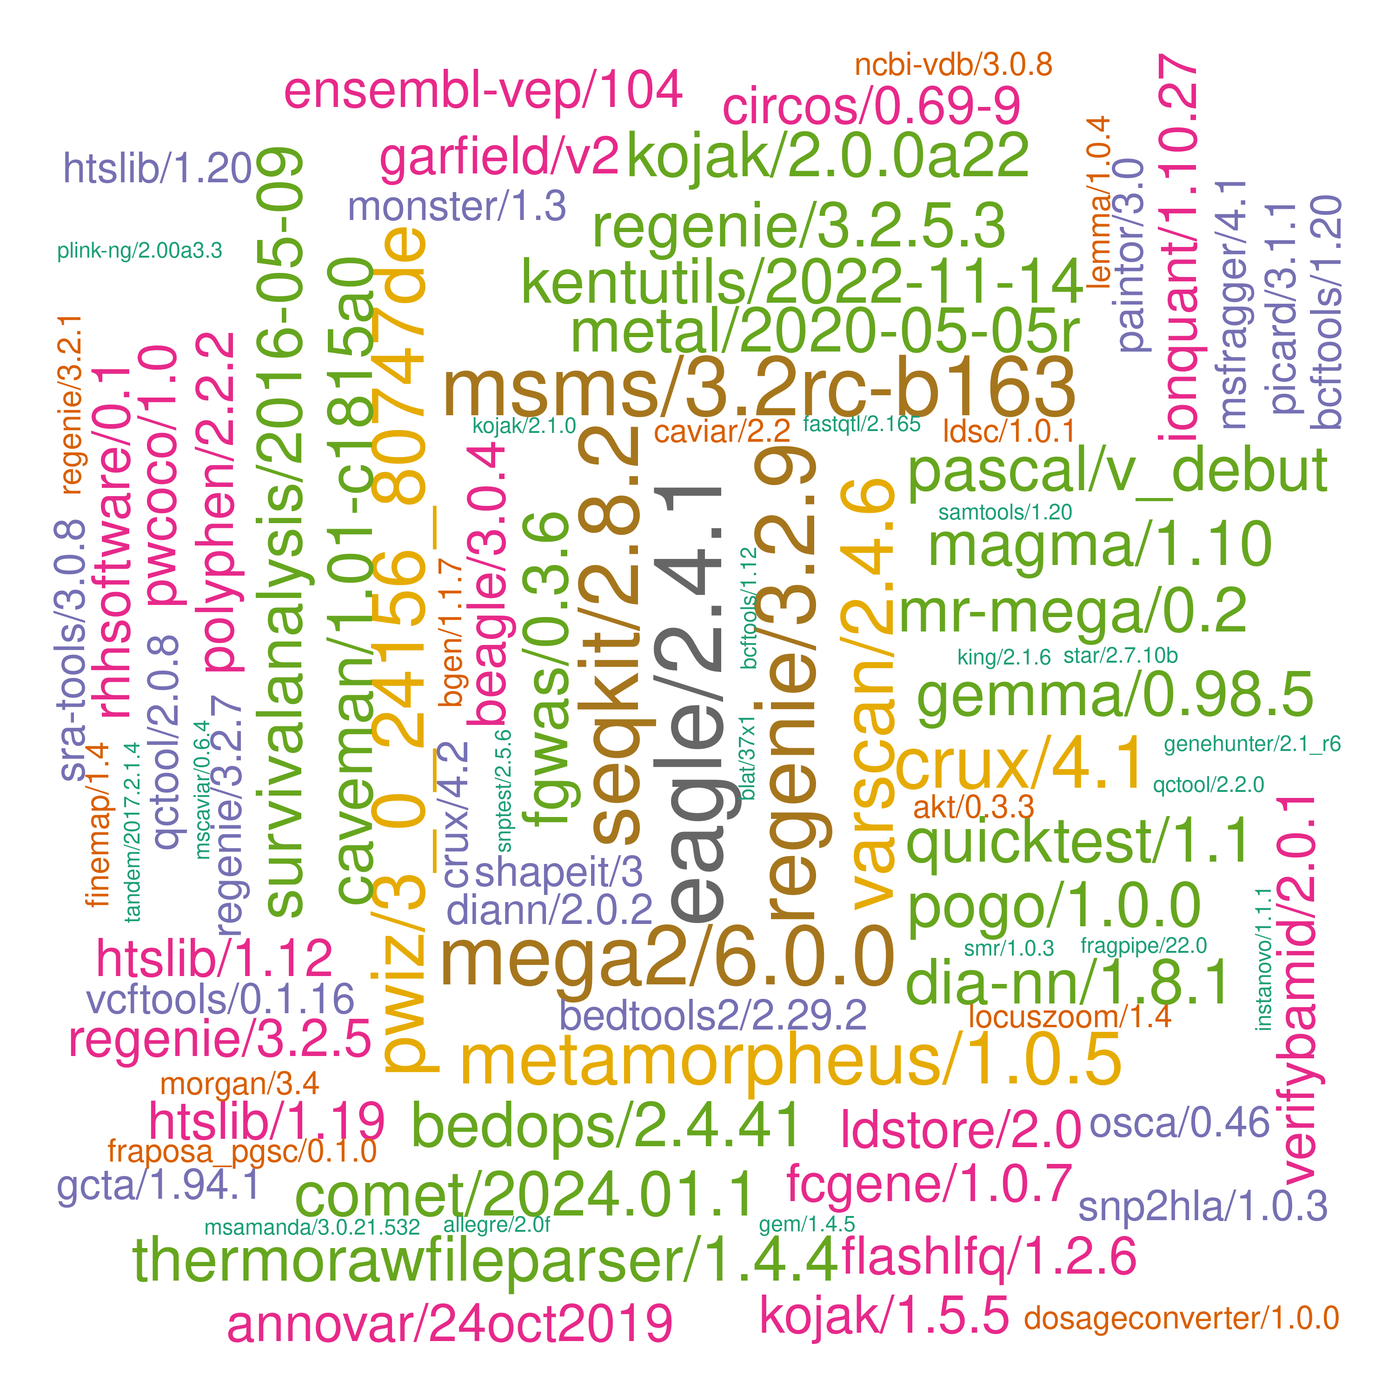
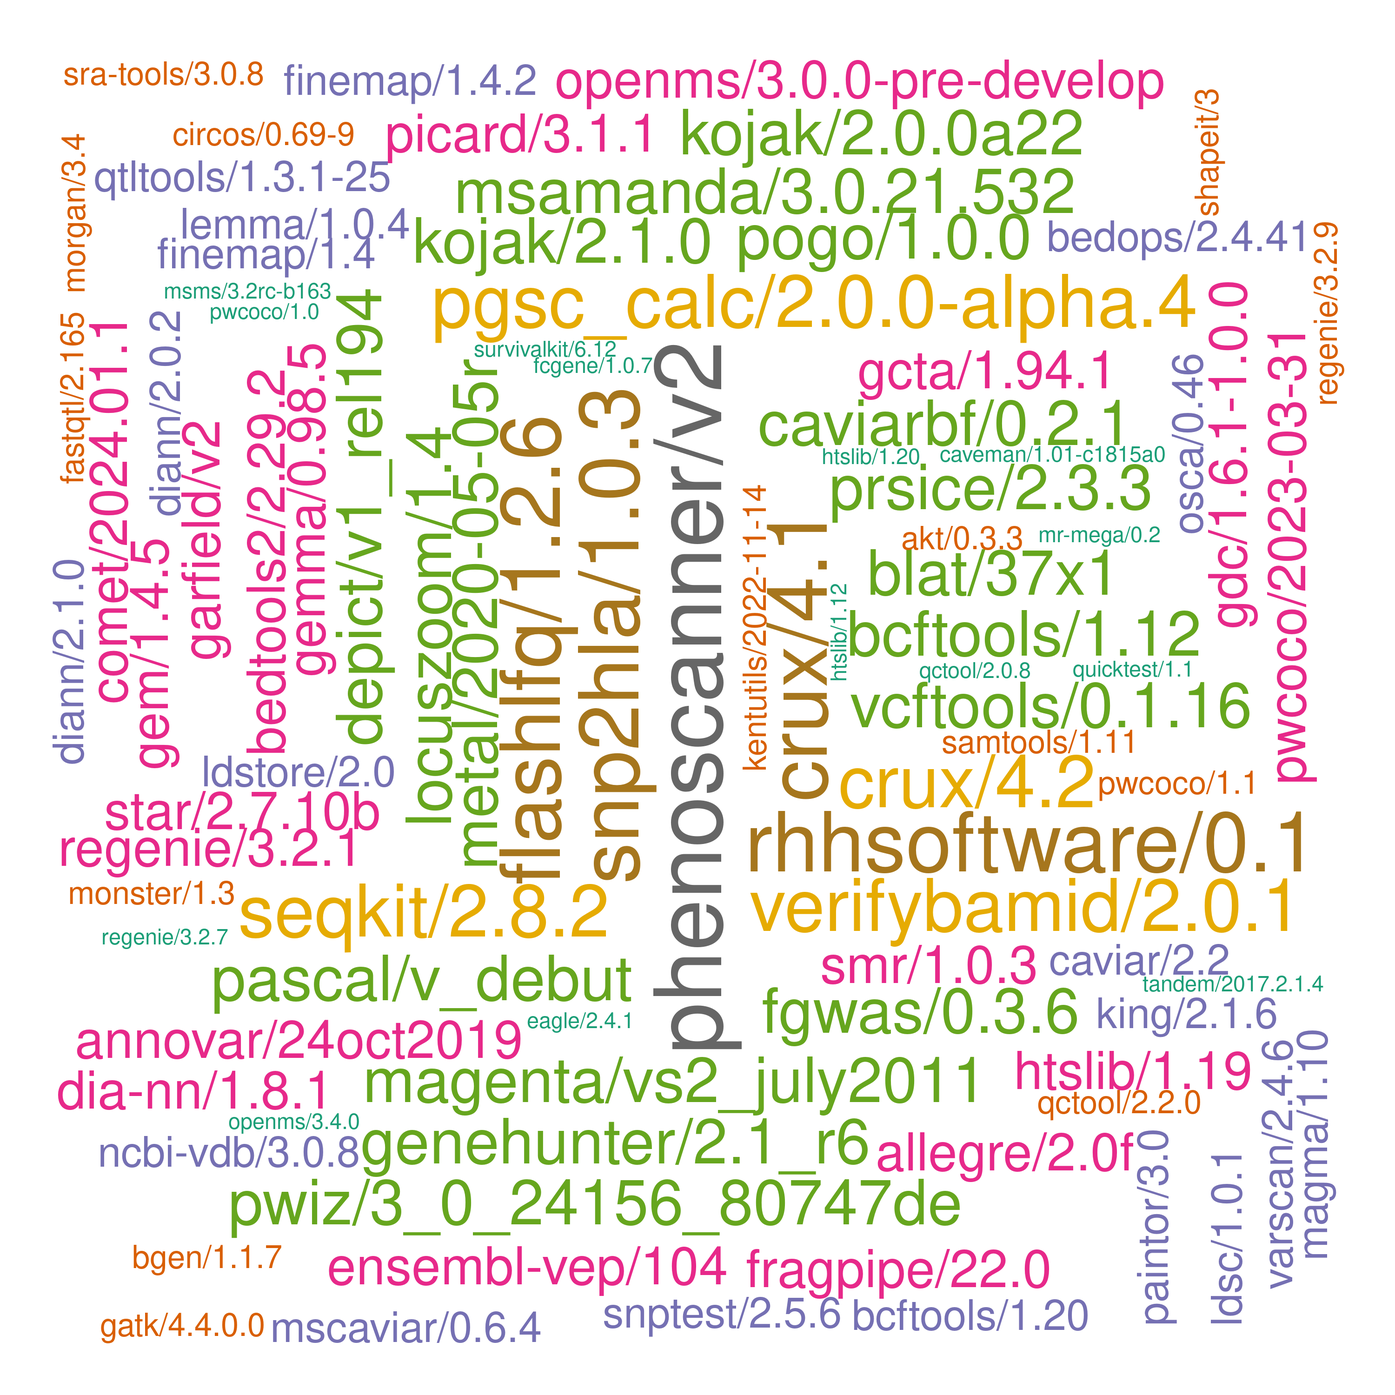
./

Changed region(s): [[0.031, 0.031, 0.961, 0.961], [0.93, 0.93, 0.961, 0.961]]

diff --git a/systems/ceuadmin.md b/systems/ceuadmin.md
@@ -20,75 +20,76 @@ The current list is as follows,
   [9] "augeas"                 "autoconf"               "automake"               "axel"
  [13] "bazel"                  "bcftools"               "Beagle"                 "bedops"
  [17] "bedtools2"              "bgen"                   "binutils"               "biobank"
- [21] "blat"                   "boltlmm"                "boost"                  "brotli"
- [25] "busybox"                "caddy"                  "CaVEMaN"                "CAVIAR"
- [29] "CAVIARBF"               "ccal"                   "chrome"                 "chromium"
- [33] "circos"                 "citeproc"               "cmake"                  "comet"
- [37] "cppunit"                "crossmap"               "crux"                   "cryptopp"
- [41] "cryptsetup"             "curl"                   "Cytoscape"              "deno"
- [45] "DEPICT"                 "device-mapper"          "diann"                  "DjVuLibre"
- [49] "docbook2X"              "docker"                 "DosageConverter"        "dotnet"
- [53] "DrugAssist"             "Eagle"                  "edge"                   "enchant"
- [57] "ensembl-vep"            "exiv2"                  "exomeplus"              "expat"
- [61] "FastQTL"                "fcGENE"                 "ffmpeg"                 "fgwas"
- [65] "findlib"                "finemap"                "firefox"                "FlashLFQ"
- [69] "fossil"                 "fpc"                    "FragPipe"               "fraposa_pgsc"
- [73] "freesurfer"             "fribidi"                "GARFIELD"               "gatk"
- [77] "gcta"                   "gdal"                   "gdc"                    "geany"
- [81] "GEM"                    "GEMMA"                  "Genotype-Harmonizer"    "geos"
- [85] "gettext"                "gh"                     "ghc"                    "ghostscript"
- [89] "git"                    "git-extras"             "GitKraken"              "git-lfs"
- [93] "glib"                   "glibc"                  "globusconnectpersonal"  "glpk"
- [97] "gmp"                    "gnutls"                 "go"                     "googletest"
-[101] "graphene"               "GraphicsMagick"         "GreenAlgorithms4HPC"    "gsl"
-[105] "gtk+"                   "gtksourceview"          "gtool"                  "hivex"
-[109] "hpg"                    "htslib"                 "hunspell"               "icu"
-[113] "ImageJ"                 "ImageMagick"            "impute"                 "inetutils"
-[117] "InstaNovo"              "IonQuant"               "JabRef"                 "JAGS"
-[121] "jasper"                 "jq"                     "json-c"                 "KentUtils"
-[125] "KING"                   "kojak"                  "krb5"                   "lapack"
-[129] "ldc2"                   "ldsc"                   "LDstore"                "LEMMA"
-[133] "leptonica"              "libarchive"             "libcares"               "libgcrypt"
-[137] "libgeotiff"             "libgit2"                "libglvnd"               "libiconv"
-[141] "libidn2"                "libjpeg-turbo"          "libntlm"                "libpng"
-[145] "libseccomp"             "libsodium"              "libssh"                 "libssh2"
-[149] "libuv"                  "libxml2"                "libxslt"                "linux"
-[153] "llama.cpp"              "locuszoom"              "LVM2"                   "MAGENTA"
-[157] "magma"                  "Mango"                  "MaxQuant"               "Mega2"
-[161] "metal"                  "MetaMorpheus"           "micromamba"             "Miniconda3"
-[165] "MONSTER"                "MORGAN"                 "MR-MEGA"                "msamanda"
-[169] "MsCAVIAR"               "MSFragger"              "MS-GF+"                 "msms"
-[173] "nano"                   "ncbi-vdb"               "ncurses"                "netbeans"
-[177] "nettle"                 "nextflow"               "nginx"                  "NLopt"
-[181] "node"                   "nspr"                   "ntlm"                   "ocaml"
-[185] "ollama"                 "oniguruma"              "opam"                   "openjdk"
-[189] "OpenMS"                 "openssh"                "openssl"                "osca"
-[193] "p7zip-zstd"             "PAINTOR"                "pandoc"                 "pandoc-citeproc"
-[197] "pango"                  "parallel"               "Pascal"                 "patchelf"
-[201] "pcre2"                  "pdf2djvu"               "pdfjam"                 "peer"
-[205] "Perseus"                "pgsc_calc"              "phenoscanner"           "PhySO"
-[209] "picard"                 "pigz"                   "plink"                  "plink-bgi"
-[213] "plinkseq"               "podman"                 "PoGo"                   "polyphen"
-[217] "poppler"                "popt"                   "proj"                   "PRSice"
-[221] "pspp"                   "pulsar"                 "PWCoCo"                 "pwiz"
-[225] "qctool"                 "qemu"                   "qpdf"                   "qt"
-[229] "qtcreator"              "QTLtools"               "quarto"                 "quicktest"
-[233] "R"                      "raremetal"              "rclone"                 "readline"
-[237] "regenie"                "regtools"               "RHHsoftware"            "rst2pdf"
-[241] "rstudio"                "rtmpdump"               "ruby"                   "rust"
-[245] "sage"                   "samtools"               "Scala"                  "scGPT"
-[249] "seqkit"                 "shapeit"                "singularity"            "SMR"
-[253] "snakemake"              "SNP2HLA"                "snptest"                "spread-sheet-widget"
-[257] "spyder"                 "sqlite"                 "sra-tools"              "sshpass"
-[261] "ssw"                    "STAR"                   "stata"                  "SurvivalAnalysis"
-[265] "SurvivalKit"            "Swift"                  "SYMPHONY"               "tabix"
-[269] "tandem"                 "tatami"                 "tesseract"              "texinfo"
-[273] "ThermoRawFileParser"    "ThermoRawFileParserGUI" "thunderbird"            "tidy"
-[277] "tiff"                   "trinculo"               "trousers"               "Typora"
-[281] "unbound"                "uv"                     "vala"                   "VarScan"
-[285] "vcftools"               "VEGAS2"                 "verifyBamID"            "VSCode"
-[289] "VSCodium"               "vte"                    "wine"                   "wrk"
-[293] "xpdf"                   "yaml-cpp"               "Zotero"                 "zstd"
+ [21] "BitNet"                 "blat"                   "boltlmm"                "boost"
+ [25] "brotli"                 "busybox"                "caddy"                  "CaVEMaN"
+ [29] "CAVIAR"                 "CAVIARBF"               "ccal"                   "chrome"
+ [33] "chromium"               "circos"                 "citeproc"               "cmake"
+ [37] "comet"                  "cppunit"                "crossmap"               "crux"
+ [41] "cryptopp"               "cryptsetup"             "curl"                   "Cytoscape"
+ [45] "deno"                   "DEPICT"                 "device-mapper"          "diann"
+ [49] "DjVuLibre"              "docbook2X"              "docker"                 "DosageConverter"
+ [53] "dotnet"                 "DrugAssist"             "Eagle"                  "edge"
+ [57] "enchant"                "ensembl-vep"            "exiv2"                  "exomeplus"
+ [61] "expat"                  "FastQTL"                "fcGENE"                 "ffmpeg"
+ [65] "fgwas"                  "findlib"                "finemap"                "firefox"
+ [69] "FlashLFQ"               "fossil"                 "fpc"                    "FragPipe"
+ [73] "fraposa_pgsc"           "freesurfer"             "fribidi"                "GARFIELD"
+ [77] "gatk"                   "gcta"                   "gdal"                   "gdc"
+ [81] "geany"                  "GEM"                    "GEMMA"                  "Genotype-Harmonizer"
+ [85] "geos"                   "gettext"                "gh"                     "ghc"
+ [89] "ghostscript"            "git"                    "git-extras"             "GitKraken"
+ [93] "git-lfs"                "glib"                   "glibc"                  "globusconnectpersonal"
+ [97] "glpk"                   "gmp"                    "gnutls"                 "go"
+[101] "googletest"             "graphene"               "GraphicsMagick"         "GreenAlgorithms4HPC"
+[105] "gsl"                    "gtk+"                   "gtksourceview"          "gtool"
+[109] "hivex"                  "hpg"                    "htslib"                 "hunspell"
+[113] "icu"                    "ImageJ"                 "ImageMagick"            "impute"
+[117] "inetutils"              "InstaNovo"              "IonQuant"               "JabRef"
+[121] "JAGS"                   "jasper"                 "jq"                     "json-c"
+[125] "KentUtils"              "KING"                   "kojak"                  "krb5"
+[129] "lapack"                 "ldc2"                   "ldsc"                   "LDstore"
+[133] "LEMMA"                  "leptonica"              "libarchive"             "libcares"
+[137] "libgcrypt"              "libgeotiff"             "libgit2"                "libglvnd"
+[141] "libiconv"               "libidn2"                "libjpeg-turbo"          "libntlm"
+[145] "libpng"                 "libseccomp"             "libsodium"              "libssh"
+[149] "libssh2"                "libuv"                  "libxml2"                "libxslt"
+[153] "linux"                  "llama.cpp"              "locuszoom"              "LVM2"
+[157] "MAGENTA"                "magma"                  "Mango"                  "MaxQuant"
+[161] "Mega2"                  "metal"                  "MetaMorpheus"           "micromamba"
+[165] "Miniconda3"             "MONSTER"                "MORGAN"                 "MR-MEGA"
+[169] "msamanda"               "MsCAVIAR"               "MSFragger"              "MS-GF+"
+[173] "msms"                   "nano"                   "ncbi-vdb"               "ncurses"
+[177] "netbeans"               "nettle"                 "nextflow"               "nginx"
+[181] "NLopt"                  "node"                   "nspr"                   "ntlm"
+[185] "ocaml"                  "ollama"                 "oniguruma"              "opam"
+[189] "openjdk"                "OpenMS"                 "openssh"                "openssl"
+[193] "osca"                   "p7zip-zstd"             "PAINTOR"                "pandoc"
+[197] "pandoc-citeproc"        "pango"                  "parallel"               "Pascal"
+[201] "patchelf"               "pcre2"                  "pdf2djvu"               "pdfjam"
+[205] "peer"                   "Perseus"                "pgsc_calc"              "phenoscanner"
+[209] "PhySO"                  "picard"                 "pigz"                   "plink"
+[213] "plink-bgi"              "plinkseq"               "podman"                 "PoGo"
+[217] "polyphen"               "poppler"                "popt"                   "proj"
+[221] "PRSice"                 "pspp"                   "pulsar"                 "PWCoCo"
+[225] "pwiz"                   "qctool"                 "qemu"                   "qpdf"
+[229] "qt"                     "qtcreator"              "QTLtools"               "quarto"
+[233] "quicktest"              "R"                      "raremetal"              "rclone"
+[237] "readline"               "regenie"                "regtools"               "RHHsoftware"
+[241] "rst2pdf"                "rstudio"                "rtmpdump"               "ruby"
+[245] "rust"                   "sage"                   "samtools"               "Scala"
+[249] "scGPT"                  "seqkit"                 "shapeit"                "singularity"
+[253] "SMR"                    "snakemake"              "SNP2HLA"                "snptest"
+[257] "spread-sheet-widget"    "spyder"                 "sqlite"                 "sra-tools"
+[261] "sshpass"                "ssw"                    "STAR"                   "stata"
+[265] "SurvivalAnalysis"       "SurvivalKit"            "Swift"                  "SYMPHONY"
+[269] "tabix"                  "tandem"                 "tatami"                 "tesseract"
+[273] "texinfo"                "ThermoRawFileParser"    "ThermoRawFileParserGUI" "thunderbird"
+[277] "tidy"                   "tiff"                   "trinculo"               "trousers"
+[281] "Typora"                 "unbound"                "uv"                     "vala"
+[285] "VarScan"                "vcftools"               "VEGAS2"                 "verifyBamID"
+[289] "VSCode"                 "VSCodium"               "vte"                    "wine"
+[293] "wrk"                    "xpdf"                   "yaml-cpp"               "Zotero"
+[297] "zstd"
 ```
 
 These are wrapped up as :star::star::star: **[modules](https://modules.readthedocs.io/en/latest/index.html)** :star::star::star:.

diff --git a/systems/files/precision-medicine.md b/systems/files/precision-medicine.md
@@ -1,0 +1,46 @@
+
+Write an assay on precision medicine and its relation to cancer treatment, highlighting the potential benefits and challenges, and discussing the role of biomarkers in precision cancer treatment.
+
+#### Precision Medicine and Cancer Treatment
+
+Precision medicine has emerged as a promising approach in cancer treatment, aiming to tailor medical care to individual patients based on their genetic makeup, lifestyle, and environmental factors. This personalized approach has the potential to improve treatment outcomes, reduce side effects, and increase survival rates. In this assay, we will explore the concept of precision medicine, its relation to cancer treatment, and the role of biomarkers in precision cancer treatment.
+
+### Understanding Precision Medicine
+
+Precision medicine is a medical approach that involves identifying the unique genetic and molecular profile of an individual's cancer and using that information to guide treatment decisions. This approach is based on the understanding that different individuals respond differently to cancer treatments due to variations in their genetic makeup. By analyzing the genetic and molecular characteristics of a patient's tumor, doctors can determine the most effective treatment options, minimize unnecessary interventions, and predict how the patient will respond to different therapies.
+
+### Precision Medicine and Cancer Treatment
+
+Precision medicine has the potential to revolutionize cancer treatment by providing a more targeted and effective approach. By tailoring treatment to the individual's unique genetic and molecular profile, precision medicine can help to:
+
+1. **Increase treatment efficacy**: Precision medicine can help to identify the most effective treatment options for a particular patient, increasing the chances of successful treatment outcomes.
+
+2. **Reduce side effects**: By targeting specific cancer cells, precision medicine can reduce the risk of side effects associated with traditional chemotherapy and radiation therapy.
+
+3. **Improve patient survival**: By providing more effective treatment options, precision medicine can increase the chances of survival for cancer patients.
+
+However, precision medicine also presents several challenges. One of the main challenges is the lack of understanding of the genetic and molecular mechanisms underlying cancer. This can make it difficult to identify the most effective treatment options for individual patients.
+
+Another challenge is the cost of precision medicine. The development and implementation of precision medicine require significant investment in research and development, which can be costly. This can make it difficult for patients to access these treatments, particularly in low-income countries.
+
+### Role of Biomarkers in Precision Cancer Treatment
+
+Biomarkers play a crucial role in precision cancer treatment. Biomarkers are biological molecules that can be used to identify and diagnose cancer. They can also be used to monitor the progression of cancer and to predict how the patient will respond to different treatments.
+
+There are several types of biomarkers used in precision cancer treatment, including:
+
+1. **Genomic biomarkers**: These biomarkers are used to identify specific genetic mutations that are associated with certain types of cancer. They can help to identify the most effective treatment options for individual patients.
+
+2. **Molecular biomarkers**: These biomarkers are used to identify specific molecular changes that occur in cancer cells. They can help to identify the most effective treatment options for individual patients.
+
+3. **Epigenetic biomarkers**: These biomarkers are used to identify specific epigenetic changes that occur in cancer cells. They can help to identify the most effective treatment options for individual patients.
+
+### Conclusion
+
+Precision medicine has the potential to revolutionize cancer treatment by providing a more targeted and effective approach. By tailoring treatment to the individual's unique genetic and molecular profile, precision medicine can increase treatment efficacy, reduce side effects, and improve patient survival. However, precision medicine also presents several challenges, including the lack of understanding of the genetic and molecular mechanisms underlying cancer and the cost of precision medicine. Biomarkers play a crucial role in precision cancer treatment by identifying specific genetic, molecular, and epigenetic changes that occur in cancer cells. By understanding these biomarkers, doctors can identify the most effective treatment options for individual patients and improve treatment outcomes.## Optimizing Cancer Treatment through Precision Medicine
+
+In recent years, precision medicine has emerged as a groundbreaking approach in cancer treatment. By leveraging advanced technologies and individualized patient profiling, precision medicine aims to revolutionize the way we approach cancer care. This essay explores the potential benefits of precision medicine in cancer treatment, the challenges that need to be addressed, and the role of biomarkers in optimizing treatment outcomes.
+
+### Precision Medicine: A New Era in Cancer Treatment
+
+Precision medicine represents a paradigm shift in cancer treatment by focusing on tailoring therapeutic interventions to the unique genetic and molecular profile of each patient. Unlike traditional treatments that employ a one-size-fits-all approach, precision medicine seeks to identify the most effective

diff --git a/systems/setup.md b/systems/setup.md
@@ -395,6 +395,7 @@ All entries are ordered chronologically.
 | 2025-04-16  | uv/0.6.14                        | Generic[^uv]         |
 | ""          | InstaNovo/1.1.1                  | Proteomics           |
 | ""          | diann/2.1.0                      | Proteomics           |
+| 2025-04-17  | BitNet/b1.58-2B-4T               | Generic[^bitnet]     |
 
 \* CEU or approved users only.
 
@@ -2220,3 +2221,63 @@ They are generated from script [setup.sh](setup.sh),
 
     extracts `uv`/`uvx` to `$HOME/.local/bin` and adds `. "$HOME/.local/bin/env"` to `$HOME/.bashrc` but we might as well customise.
 
+[^bitnet]: **BitNet**
+
+    GitHub, <https://github.com/microsoft/BitNet>
+
+    ```bash
+    git clone --recursive https://github.com/microsoft/BitNet.git
+    cd BitNet/
+    module load python/3.9.12/gcc/pdcqf4o5
+    python -m venv BitNet
+    source BitNet/bin/activate
+    pip install -r requirements.txt
+    huggingface-cli download microsoft/BitNet-b1.58-2B-4T-gguf --local-dir models/BitNet-b1.58-2B-4T
+    python setup_env.py -md models/BitNet-b1.58-2B-4T -q i2_s
+    python run_inference.py -m models/BitNet-b1.58-2B-4T/ggml-model-i2_s.gguf -p "You are a helpful assistant" -cnv
+    ```
+
+    The last line allows for prompt engineering,
+
+    ```
+    > why the sky is blue
+
+    The sky appears blue due to a phenomenon called Rayleigh scattering. This effect occurs when sunlight, which appears white, passes through Earth's atmosphere and interacts with molecules and small particles in the air.
+
+    Sunlight is made up of many different wavelengths of light, each with its own specific color. Blue light has a shorter wavelength than red light. When sunlight enters the Earth's atmosphere, it collides with these molecules and small particles. The shorter blue light waves are scattered in all directions by the molecules and particles much more than the longer red light waves. This scattering of shorter wavelengths is
+
+    > what is the result of 10 + 45
+
+    The result of 10 + 45 is 55.
+    ```
+
+    The module is much simplier to use, however,
+
+    ```bash
+    module load ceuadmin/BitNet
+    cd $BITNET_ROOT
+    run_inference -p "Write an essay about precision medicine" -n 900 -p 256 -t 8
+    ```
+
+    We have the essay [precision-medicine.md](files/precision-medicine.md). The usage is also quoted here,
+
+    > usage: run_inference.py [-h] [-m MODEL] [-n N_PREDICT] -p PROMPT [-t THREADS] [-c CTX_SIZE] [-temp TEMPERATURE] [-cnv]
+
+    > Run inference
+
+    > optional arguments:
+    >  -h, --help           show this help message and exit
+    >  -m MODEL, --model MODEL
+    >                       Path to model file
+    >  -n N_PREDICT, --n-predict N_PREDICT
+    >                       Number of tokens to predict when generating text
+    >  -p PROMPT, --prompt PROMPT
+    >                       Prompt to generate text from
+    >  -t THREADS, --threads THREADS
+    >                       Number of threads to use
+    >  -c CTX_SIZE, --ctx-size CTX_SIZE
+    >                       Size of the prompt context
+    >  -temp TEMPERATURE, --temperature TEMPERATURE
+    >                       Temperature, a hyperparameter that controls the randomness of the generated text
+    >  -cnv, --conversation  Whether to enable chat mode or not (for instruct models.)
+    >                       (When this option is turned on, the prompt specified by -p will be used as the system prompt.)
